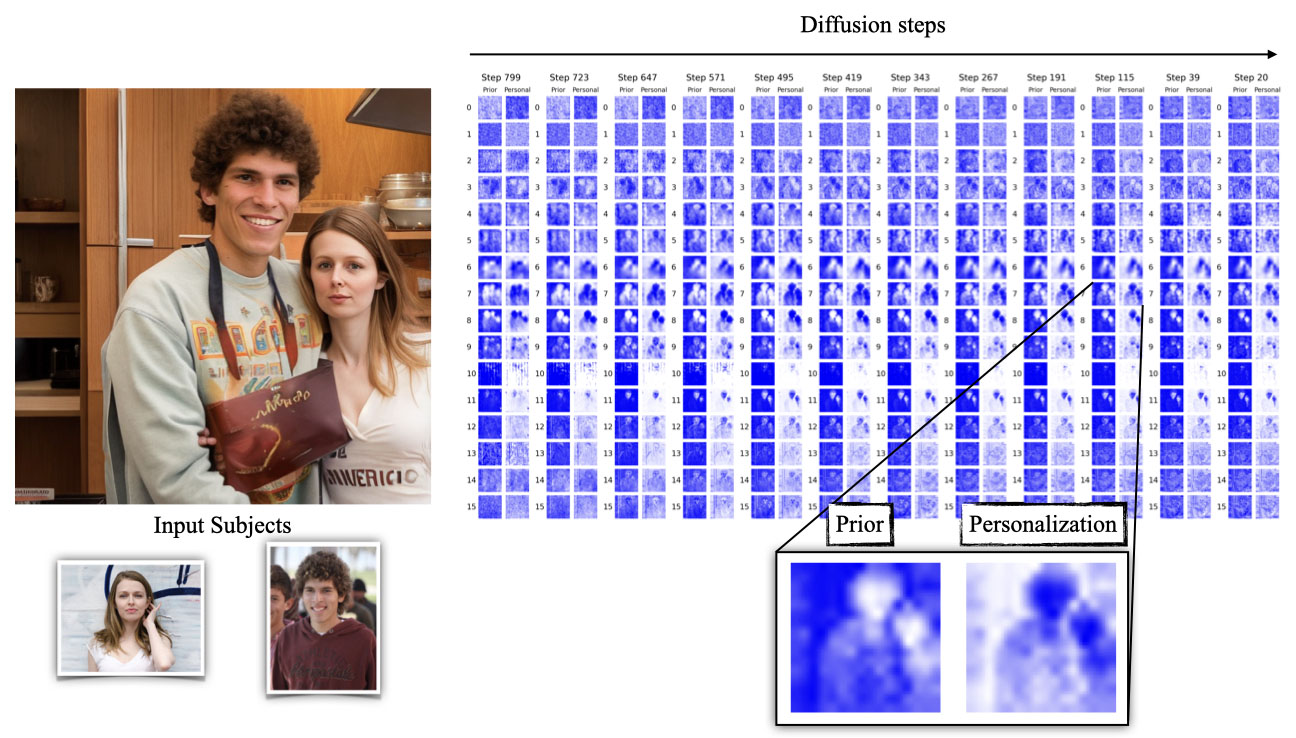
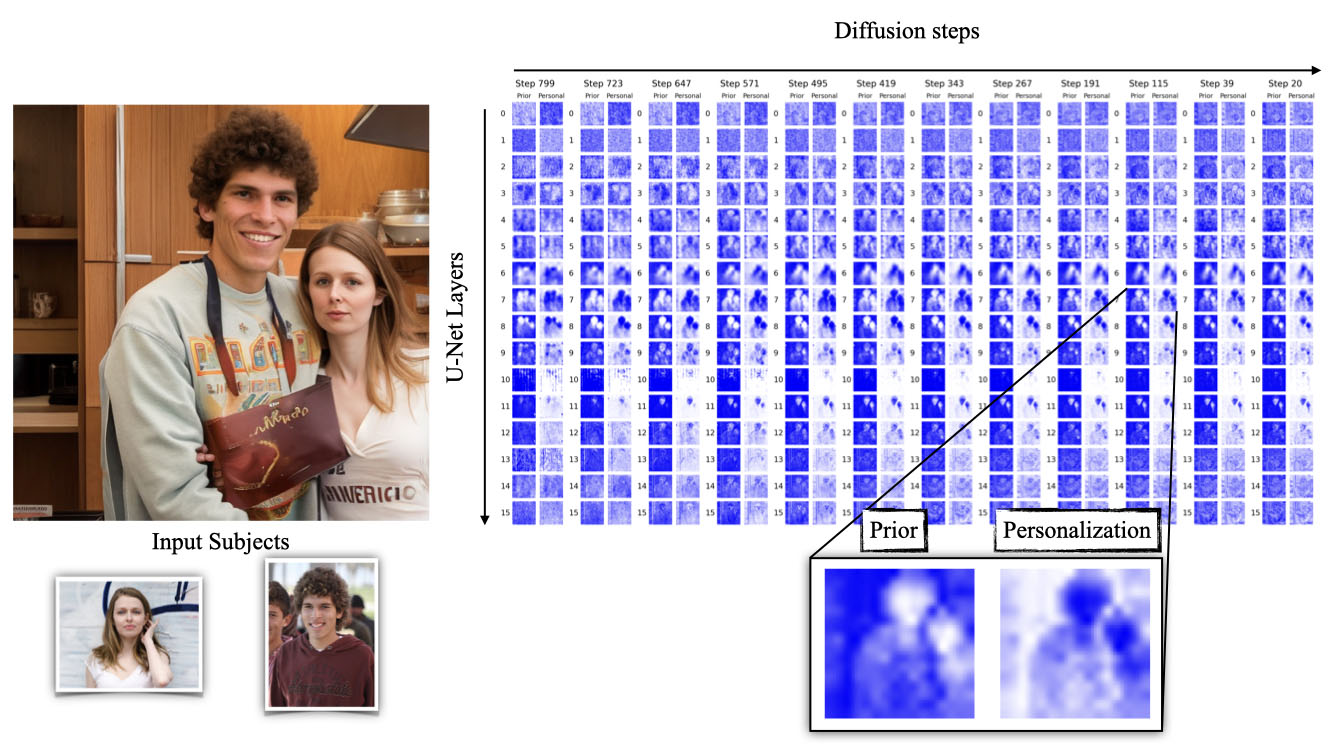
router viz update

diff --git a/index.html b/index.html
@@ -270,7 +270,8 @@
       <p>
         When we visualize the router predictions of MoA, we can see that the routers put the background pixels to the prior
         branch, and most of the foreground pixels to the personalization branch.  This behavior explains why MoA can 
-        achieve <b>disentangled subject-context control</b>.
+        achieve <b>disentangled subject-context control</b>.  The detailed behavior of the router differs across layers and timesteps.
+        This allows the personalization branch to focus on different regions within the subject (i.e. the face, the body, and so on) at different timesteps.
       </p>
       <img src="./static/images/figure/figure.018.jpeg" alt="Fig3." />
     </div>
